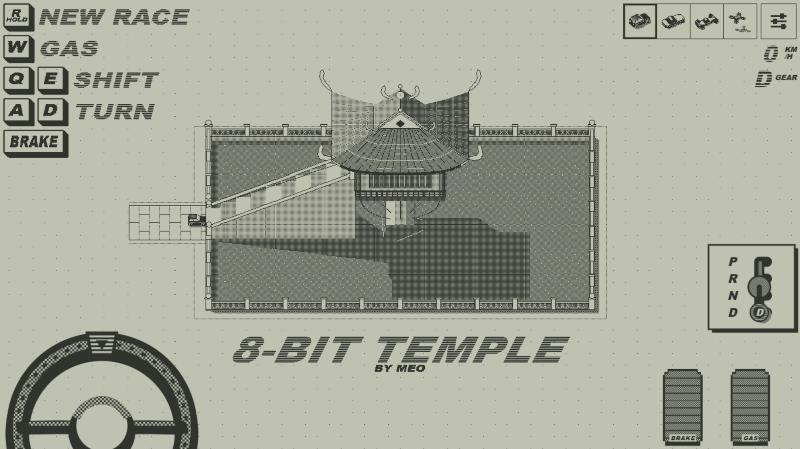
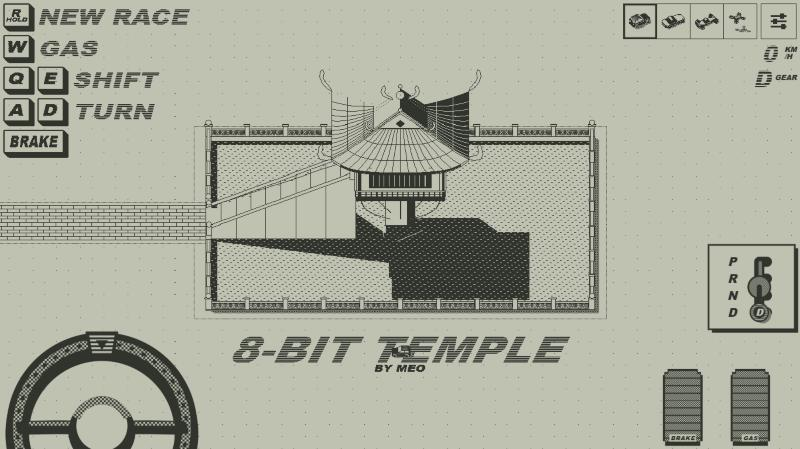
Keep the Temple map upright on portrait phones
Portrait phones turn every map 90 degrees. The Temple map now stays
upright instead: the camera fits the temple, pond and title between the
top bar and the controls, and the car and title are drawn without
counter-rotation. The other maps are unchanged. README screenshots for
desktop, phone landscape and phone portrait are refreshed.

Changed region(s): [[0.0, 0.1871, 0.75, 0.686], [0.4688, 0.7483, 0.5312, 0.8107]]

diff --git a/dist/index.html b/dist/index.html
@@ -868,13 +868,12 @@ function templeParts(x,y,s){
  const U=P.u+P.rim,V=P.v+P.rim,st=G.stairs;
  return {x:r2(x),y:r2(y),s,blocks:[box(-U,-V,U,V,G.fence.post),box(-U,-st.wall,st.u1,st.wall,G.floor.z+16),box(-G.floor.u-2,-G.floor.u-2,G.floor.u+2,G.floor.u+2,1e3)]};
 }
-// The title's paint rect (screen px): centred under the pond. A portrait phone draws the title turned upright about the
-// rect's centre, so there the rect sits east of the pond (above the phone's controls), centred down the arena, with its long
-// side within the narrow view.
+// The title's paint rect (screen px): centred under the pond (the map is never turned, even on a portrait phone).
 const TEMPLE_TITLE_GAP=18,TEMPLE_TITLE_H=64;
 function templeTitleRect(T,A){const s=T.s,o=templeOuter(T),h=Math.round(TEMPLE_TITLE_H*s);
- if(A&&A.mobile&&A.uiH>A.uiW){const cx=Math.round(Math.min(T.x+o.u+70*s,A.W-h/2-90)),cy=Math.round(A.H/2),w=Math.min(2*(A.W-cx)-8,A.H-80,340);return {l:cx-Math.round(w/2),t:cy-Math.round(h/2),r:cx+Math.round(w/2),b:cy+Math.round(h/2)};}
  const w=Math.min(A.W-40,460*s),t=Math.ceil((T.y+o.v)*K+TEMPLE_TITLE_GAP*s);return {l:Math.round(T.x-w/2),t,r:Math.round(T.x+w/2),b:Math.min(A.H-8,t+h)};}
+// What a portrait phone frames on the Temple map (screen px): the grounds from the roof's top to the title's foot.
+function templeViewBox(T,A){const o=templeOuter(T),R=templeTitleRect(T,A);return {l:T.x-o.u-20*T.s,t:templeTopY(T)-8,r:T.x+o.u+20*T.s,b:R.b+8};}
 // The map: the temple centred in the arena (from the ornament's top to the title's foot); every vehicle starts on the painted
 // 8-BIT TEMPLE title (wherever this screen paints it), facing west along it.
 function buildTemple(A){
@@ -1670,7 +1669,7 @@ function position(o,alpha){return {x:o.px+(o.x-o.px)*alpha,y:o.py+(o.y-o.py)*alp
 // flight height), and its depth key follows the view ray (K·K/Z per unit up). Above FLY.clear it draws over the gate's arch.
 const mobileCarArtScale=arena=>arena&&arena.mobile?1.8:1;
 function scaleArtBox(b,scale){return {l:b.l*scale,t:b.t*scale,r:b.r*scale,b:b.b*scale};}
-const portraitCarArt=arena=>!!(arena&&arena.mobile&&arena.uiH>arena.uiW);
+const portraitCarArt=arena=>!!(arena&&arena.mobile&&arena.uiH>arena.uiW&&!arena.upright);
 function carArtBox(b,arena){const q=scaleArtBox(b,mobileCarArtScale(arena));return portraitCarArt(arena)?{l:q.t,t:-q.r,r:q.b,b:-q.l}:q;}
 // True behind the shrine's veranda and within its roof's width: the shrine is taller than the Drone ever flies, so there it
 // keeps its ordinary depth key instead of drawing over everything.
@@ -1750,7 +1749,12 @@ function cameraGeometry(cssW,cssH,short,defaultZoom,courseW,courseH){
  return {scale,l,t,r:l+w,b:t+h,w,h};
 }
 // Fit the course into the open region between mobile controls; the viewport still covers the whole screen.
-function mobileCameraGeometry(cssW,cssH,short,courseW,courseH,zones,u,lot=null){
+// upright (the Temple map): a portrait phone shows the map as it is, not turned 90°, with the box (screen px of the map) fitted
+// between the top bar and the controls below it.
+function mobileCameraGeometry(cssW,cssH,short,courseW,courseH,zones,u,lot=null,upright=null){
+ if(upright&&cssH>cssW){const get=id=>zones.find(z=>z.id===id),wheel=get('wheel'),gear=get('gear'),hud=get('hud'),left=12,right=cssW-12,top=hud.b*u+12,bottom=Math.min(wheel.t,gear.t)*u-12;
+  const aw=Math.max(cssW*.5,right-left),ah=Math.max(cssH*.2,bottom-top),bw=upright.r-upright.l,bh=upright.b-upright.t,scale=Math.min(aw/bw,ah/bh),w=cssW/scale,h=cssH/scale;
+  const l=(upright.l+upright.r)/2-(left+right)/2/scale,t=(upright.t+upright.b)/2-(top+bottom)/2/scale;return {scale,l,t,r:l+w,b:t+h,w,h};}
  const rotated=cssH>cssW,get=id=>zones.find(z=>z.id===id),wheel=get('wheel'),gear=get('gear'),hud=get('hud');
  const left=rotated?12:wheel.r*u+8,right=rotated?cssW-12:gear.l*u-8;
  const top=hud.b*u+12,bottom=rotated?Math.min(wheel.t,gear.t)*u-12:cssH-12;
@@ -1761,7 +1765,7 @@ function mobileCameraGeometry(cssW,cssH,short,courseW,courseH,zones,u,lot=null){
  const x=(left+right)/2,y=(top+bottom)/2+(lot&&rotated?25:0),cx=rotated?y:x,cy=rotated?cssW-x:y,w=vw/scale,h=vh/scale,l=(bounds.l+bounds.r)/2-cx/scale,t=(bounds.t+bounds.b)/2-cy/scale;
  return {scale,l,t,r:l+w,b:t+h,w,h};
 }
-const titleRotation=view=>view&&view.mobile&&view.cssH>view.cssW?-Math.PI/2:0;
+const titleRotation=view=>view&&view.mobile&&view.cssH>view.cssW&&!view.upright?-Math.PI/2:0;
 // Keep at least one output pixel per CSS pixel when the world is zoomed in.
 // World caches stay in logical pixels; only the final compositing canvas grows.
 // density: canvas pixels per world pixel. On a high-density screen the canvas matches device pixels (dpr, up to 3), so the
@@ -2832,7 +2836,7 @@ if(typeof document==='undefined'){if(typeof module!=='undefined'){
  module.exports={BURN_SPEED,GEARS,AUTO_GEARS,MANUAL_GEARS,PADDLE_GEARS,PADDLE_SEQ,isPaddle,REV_SHIFT,SHIFT_AT,isManual,shiftOk,gearStep,gearName,shiftGear,gearTelemetry,WIDTH,HEIGHT,K,Z,WORLD_H,STEP,SIM_SPEED,TAU,PRESETS,CAR_ART,FRAMES,SHADOW_INK,LIGHT,DEFAULT_ARENA,edgeClear,CROSS_GAP,carBoxAll,SPAWN_INSIDE,CONE_COUNT,CONE_R,CONTROL_ZONES,keepOuts,layoutCourse,drawGround,resetCones,TRANSFER_MARGIN,CONE_BOX,transferBody,transferEdges,sceneItems,carDrawable,mobileCarArtScale,scaleArtBox,portraitCarArt,carArtBox,gateDrawables,drawOrder,SKID,createTrackRecorder,breakTracks,recordTracks,coneSprite,coneShadowSprite,CONE_H,archShape,inArch,gateArt,GATE_SPLIT,GATE_FRONT,plotLine,frameIndex,carModel,carShadowPolys,frameBounds,spriteBox,raster,carSprite,carShadow,buildCarAtlases,makeArena,normalizeInput,keysToInput,carScreenBounds,resizeWorld,wrap,delta,angleDelta,createWorld,drive,step,carCone,coneCone,position,wheelPoints,SPEED_CAP,OMEGA_MAX,CONE_MAX,FASTEST,SUB_MOVE,gatePosts,carPost,conePost,substeps,limitVelocity,ROLL_STEPS,ROLL_G,LOAD_W,LOAD_ZETA,IMPACT_GAIN,TIP_COMMIT,TIP_DROP,TIP_MIN,TIP_SOFT,ROLL_SPIN,ROLL_DECEL,ROLL_SETTLE,ROLL_FRICTION,REST_SPEED,RECOVER_TIME,RECOVER_GAP,CAR_STATES,uprightState,rollKappa,tipAngle,tumble,rollover,rollFrame,rolledModel,rollShadowPolys,rollSpritePoints,rollFrameBounds,rollSpriteBox,carRollSprite,carRollShadow,carHidden,canRecover,recover,recoverSpot,boxDistance};
  Object.assign(module.exports,{raceRoute,raceProject,raceCross,raceNew,raceMove,raceTime,raceRank,raceBetter,raceFingerprint,raceRecords,raceSave,RACE_VERSION});
  Object.assign(module.exports,{setTrack,TUNING,TUNING_SPEC,TUNING_DEFAULTS,setTuning,resetTuning}); // shared tuning interface
- Object.assign(module.exports,{canvasRendering,TEMPLE_BRICK,LIGHT,TEMPLE_GEO,TEMPLE_LAYERS,TEMPLE_SCALE,TEMPLE_TITLE,templeOuter,templeThumb,templeTitleRect,buildTemple,templeRect,templeClearance,templeTopY,templeParts,templeBlocks,templeArt,templeDrawables,templeHides,templeGround,visibleBounds,cameraGeometry,mobileCameraGeometry,titleRotation,renderMetrics,titleRasterSpec,groundDots,pitStopGeometry,pitPoint,gasPumpPoint,pitPosts,pitOverlap,carPit,conePit,drawPitBay,pitArt,pitDrawables,VIEW_SHORT,computeView,createControls,UI_MARGIN,UI_GAP,uiMetrics,controlZones,WHEEL_DEAD,turnDelta,pointerAngle,wheelDrag,wheelValue,wheelKickback,createModes,recoverAvailable,tryRecover,isRecoverKey,recoverFromKey}); // ui (r2-ui)
+ Object.assign(module.exports,{templeViewBox,canvasRendering,TEMPLE_BRICK,LIGHT,TEMPLE_GEO,TEMPLE_LAYERS,TEMPLE_SCALE,TEMPLE_TITLE,templeOuter,templeThumb,templeTitleRect,buildTemple,templeRect,templeClearance,templeTopY,templeParts,templeBlocks,templeArt,templeDrawables,templeHides,templeGround,visibleBounds,cameraGeometry,mobileCameraGeometry,titleRotation,renderMetrics,titleRasterSpec,groundDots,pitStopGeometry,pitPoint,gasPumpPoint,pitPosts,pitOverlap,carPit,conePit,drawPitBay,pitArt,pitDrawables,VIEW_SHORT,computeView,createControls,UI_MARGIN,UI_GAP,uiMetrics,controlZones,WHEEL_DEAD,turnDelta,pointerAngle,wheelDrag,wheelValue,wheelKickback,createModes,recoverAvailable,tryRecover,isRecoverKey,recoverFromKey}); // ui (r2-ui)
  Object.assign(module.exports,{PAINT_SLANT,PAINT_STRIPE,PAINT_SOLID_BELOW,PAINT_KEY_SOLID_BELOW,PAINT_COPY,GLYPHS,glyphMask,shearMask,maskRuns,keycapRuns,wrapPhrases,paintLayout,paintRuns,drawPaint}); // ground paint (r2-paint)
  Object.assign(module.exports,{buildCourse,fitTrack,roundedPath,circuitVerts,laneHalf,laneSelfClear,gateSpot,trackMarks,LANE_PAD,LANE_GAP,GATE_LEAD,TRACK_STEP,CONE_OFF,inGate,TRACKS,TRACK_SHAPES,TRACK_HALF,TRACK_FILL,shapeUnit,trackSelfClear,insideLoop,titleSpot,trackRadiusOk,TRACK_MIN_R}); // sim + course extra exports (r2-sim)
  Object.assign(module.exports,{wheelLimit,wheelInput,wheelAngle,GEAR_GATE,STICK_VB,gearSlot,stickMove,mobileStickMove,stickSlot,simpleAutoInput,stickPath,AUTO_GATE,autoSlot,autoMove,autoSlotAt,autoPath,stickGate,pathPoint,shiftBarW,TUNING_STORE,loadTuning,saveTuning,tuningGroups,uiPx,SPEED_EM,speedFit,shiftKeyW,shiftKeyGap,shiftKeyLayout,gearCues,trackThumbSize,trackThumb}); // ui extra exports (r2-ui, r3-ui)
@@ -3497,9 +3501,9 @@ function applyView(){
  if(!(cssW>0&&cssH>0))return;
  const next=computeView(cssW,cssH,dpr,viewFor()),u=next.scale/dpr,safe=readSafe(u),first=!view,mobile=isTouch()||Math.min(cssW,cssH)<500;
  view={...next,dpr,cssW,cssH,u,safe,mobile};uiZones=controlZones(view,safe);
- const mobileShort=VIEW_SHORT,A=makeArena(mobileShort*2,mobileShort);A.fixedMobile=true;A.safe=safe;A.uiU=u;A.uiW=cssW;A.uiH=cssH;A.mobile=mobile;
+ const mobileShort=VIEW_SHORT,A=makeArena(mobileShort*2,mobileShort);A.fixedMobile=true;A.safe=safe;A.uiU=u;A.uiW=cssW;A.uiH=cssH;A.mobile=mobile;A.upright=SELECTED_TRACK==='temple';view.upright=A.upright;
  // Both courses use the same world reference; each slider selects its own visible span.
- const rotated=mobile&&cssH>cssW, camera=mobile?mobileCameraGeometry(cssW,cssH,viewFor(),A.W,A.H,uiZones,u,SELECTED_TRACK==='parking'?lotBox(layoutCourse(A).lot):null):cameraGeometry(cssW,cssH,viewFor(),VIEW_SHORT,A.W,A.H),worldScale=camera.scale,visibleW=camera.w,visibleH=camera.h;view.worldScale=worldScale;
+ const rotated=mobile&&cssH>cssW&&!A.upright, camera=mobile?mobileCameraGeometry(cssW,cssH,viewFor(),A.W,A.H,uiZones,u,SELECTED_TRACK==='parking'?lotBox(layoutCourse(A).lot):null,A.upright?templeViewBox(layoutCourse(A).temple,A):null):cameraGeometry(cssW,cssH,viewFor(),VIEW_SHORT,A.W,A.H),worldScale=camera.scale,visibleW=camera.w,visibleH=camera.h;view.worldScale=worldScale;
  Object.assign(A,{viewL:camera.l,viewT:camera.t,viewR:camera.r,viewB:camera.b});
  const arenaChanged=first||world.arena.W!==A.W||world.arena.H!==A.H||!world.arena.fixedMobile||!ground;
  const cameraChanged=arenaChanged||Math.abs((world.arena.viewL??0)-A.viewL)>.001||Math.abs((world.arena.viewT??0)-A.viewT)>.001||Math.abs((world.arena.viewR??A.W)-A.viewR)>.001||Math.abs((world.arena.viewB??A.H)-A.viewB)>.001;

diff --git a/tasks/CURRENT_STATE.md b/tasks/CURRENT_STATE.md
@@ -1,4 +1,4 @@
-Temple map — November 2, 2026: a fifth map, **Temple** (`temple`, between Figure eight and Parking lot), is free drive like parking: no road, gate, cones, pit or race (`raceRoute` is null). It shows the One Pillar Pagoda: a lotus-like shrine on a single stone pillar with curved struts, a lattice room, veranda railing, a curved hip roof with upturned corners and a small front gable with gilt ridge ornaments, in a stone-coped pond with a balustrade fence. Ten broad stairs climb from a gate in the west fence (side-on, so they never hide the pillar), and a long brick path (running bond) leads west from it to the arena's edge. Large temple surfaces avoid fine dithers (water: paper with ink ripples, ink with paper ripples in shadow) so they stay clean when phones scale the view; phones also render the canvas at device resolution (`renderMetrics` with dpr, `canvasRendering`). Every vehicle starts on the painted title, facing west. A flying Drone's shadow is drawn on the open water after the pond layer (`drawWaterShadow` fills the shadow's footprint with `waterShade`, the open water in the shade dither), so it shows on lit water and not where the temple already shades it. The painted title reads **8-BIT TEMPLE** (`TEMPLE_TITLE`, under the pond; east of the pond in portrait). `TEMPLE_GEO` holds every size and `buildTemple` places it at `TEMPLE_SCALE` (1.45×) on the fixed world. Colliders are three oriented boxes (`layout.temple.blocks`, pit-style): the fenced pond (the Drone clears it above the fence), the stairs and the shrine (taller than the Drone flies). Art (`templeArt`) has pond, stairs, pavilion, front and shadow layers, sorted at their own front lines; shadows on the water are drawn into the pond layer in a darker dither. Recovery, the Settings thumbnail (`templeThumb`) and a high Drone behind the shrine (`templeHides`) account for it; the track picker uses three columns. In portrait phones the buildings are drawn turned with the map, like the pit garage. Seven checks in `verify-current.cjs` cover it; `.github/workflows/pages.yml` now confirms after each deploy that the live page matches the commit; `snapshot.cjs` and the README art style guide (images in `docs/images`) were added.
+Temple map — November 2, 2026: a fifth map, **Temple** (`temple`, between Figure eight and Parking lot), is free drive like parking: no road, gate, cones, pit or race (`raceRoute` is null). It shows the One Pillar Pagoda: a lotus-like shrine on a single stone pillar with curved struts, a lattice room, veranda railing, a curved hip roof with upturned corners and a small front gable with gilt ridge ornaments, in a stone-coped pond with a balustrade fence. Ten broad stairs climb from a gate in the west fence (side-on, so they never hide the pillar), and a long brick path (running bond) leads west from it to the arena's edge. Large temple surfaces avoid fine dithers (water: paper with ink ripples, ink with paper ripples in shadow) so they stay clean when phones scale the view; phones also render the canvas at device resolution (`renderMetrics` with dpr, `canvasRendering`). Every vehicle starts on the painted title, facing west. A flying Drone's shadow is drawn on the open water after the pond layer (`drawWaterShadow` fills the shadow's footprint with `waterShade`, the open water in the shade dither), so it shows on lit water and not where the temple already shades it. The painted title reads **8-BIT TEMPLE** (`TEMPLE_TITLE`, under the pond). `TEMPLE_GEO` holds every size and `buildTemple` places it at `TEMPLE_SCALE` (1.45×) on the fixed world. Colliders are three oriented boxes (`layout.temple.blocks`, pit-style): the fenced pond (the Drone clears it above the fence), the stairs and the shrine (taller than the Drone flies). Art (`templeArt`) has pond, stairs, pavilion, front and shadow layers, sorted at their own front lines; shadows on the water are drawn into the pond layer in a darker dither. Recovery, the Settings thumbnail (`templeThumb`) and a high Drone behind the shrine (`templeHides`) account for it; the track picker uses three columns. On portrait phones the Temple map is not turned 90° like the other maps (`A.upright`): the camera fits `templeViewBox` between the top bar and the controls, and the car and title are drawn without counter-rotation. Seven checks in `verify-current.cjs` cover it; `.github/workflows/pages.yml` now confirms after each deploy that the live page matches the commit; `snapshot.cjs` and the README art style guide (images in `docs/images`) were added.
 
 # Current game state
 

diff --git a/README.md b/README.md
@@ -88,7 +88,7 @@ Ranked time is `elapsedSeconds + 0.02 × (100 − quality)²`; lower wins. Perso
 - Light falls from the upper left, as everywhere in the game. The water is paper with ink ripple dashes; in shadow it turns to ink with paper ripples. The shrine, pillar, stairs and fence cast these shadows on the water. A flying Drone's shadow falls on the open water too, but adds nothing where the water is already in the temple's shadow (`drawWaterShadow`, `waterShade`). Cars behind the pond or the shrine are hidden by them.
 - The stairs come in from the side, because this camera looks down steeply: stairs from the front would hide the pillar. For the same reason, the roof overhangs less at the front than at the sides.
 - Sizes are in `TEMPLE_GEO`, and the map is built by `buildTemple`. The temple is drawn at 1.45× on the fixed 1350 × 675 world, centred together with its title.
-- On a phone held upright, the whole map is drawn turned 90°. The title is turned back upright and moved east of the pond, above the controls, to fit; the buildings stay turned, like the pit garage on the road courses.
+- On a phone held upright, the Temple map is **not** turned 90° like the road courses: it stays upright, and the camera fits the temple, pond and title between the top bar and the controls (`templeViewBox`, the `upright` camera).
 
 | Desktop (1366×768) | Phone, landscape (844×390) | Phone, portrait (375×812) |
 | --- | --- | --- |
